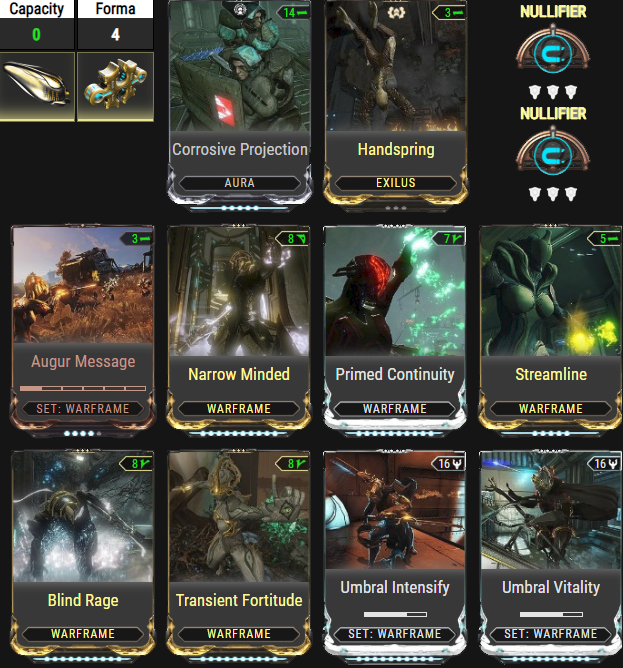
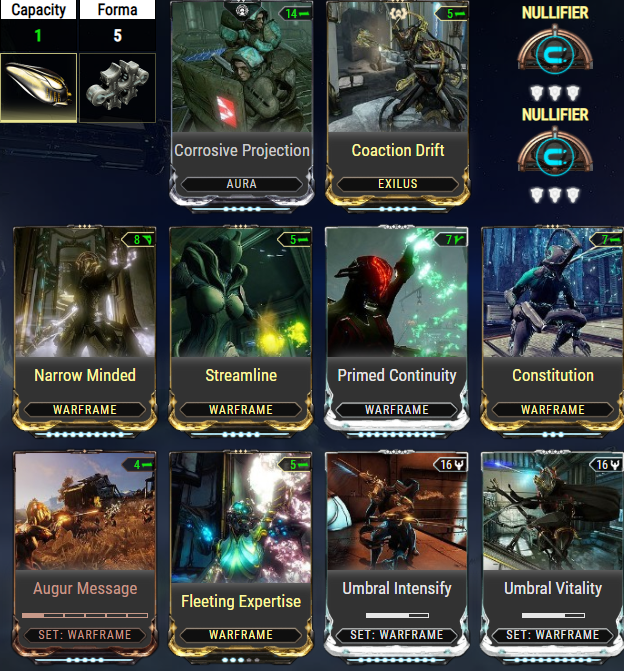
GitBook: [master] 4 pages and 25 assets modified

diff --git a/mechanics/eidolons/required-builds.md b/mechanics/eidolons/required-builds.md
@@ -4,59 +4,73 @@ Here are some of the builds that can suffice in any scenario during eidolon hunt
 
 ### Chroma
 
-Here is the build that is suitable for Chroma Prime, Here some notes to go along with the following build.
+Here is the Chroma build that can suffice in Eidolon hunts,  
+A few notes to go with the following build.
 
-You want to build above 280% Power Strength so you can get your Vex Armor's damage buff high enough to be able to one-two shot a Eidolon limb/capshot. You want very high duration so that way Vex Armor will last a good amount of time and because your Elemental Ward's \(Assuming you're running Toxin ward, because it's highly recommended, because it boost reload speed to provide faster combo building.\) Reload buff, because it is more effective with more duration. Streamline is placed here so you don't spend 2 energy pads for 1 Vex Armor buff, Range should be the least of your concerns, because YOU are the damage dealer.
+* Must have over 280% Power Strength to have enough Vex Armor \(Fury\) to one-two shot.
+* Must have very high duration so both Elemental Ward and Vex armor last a good time.
+* Recommended to run Toxin Ward on your Elemental Ward because it buffs reload speed.
+* Streamline is recommended so you don't burn 2 pads for 1 Vex Armor cast.
+* Swap out Corrosive Projection for Enemy Radar or Sniper Scavenger if 3 are already present.
+* Arcane Nullifier helps to crutch a poorly timed Harrow cast.
 
-Swap out Corrosive Projection for either Enemy Radar or Sniper Scavenger if the other members in your party is already running a total of 3 Corrosive Projections, because reminder you DON'T want full armor strip, only 90-99%.
-
-![](../../.gitbook/assets/image%20%288%29.png)
+![Chroma](../../.gitbook/assets/image%20%2821%29.png)
 
 ### Volt
 
-Here is the build that is suitable for Volt Prime, Here some notes to go along with the following build.
+Here is the Volt build that can suffice in Eidolon hunts,  
+A few notes to go with the following build.
 
-The most important thing here is the very high Duration, because you want to be able to keep shields up for a long time, this allows you to be able to reliably pre-shield, right after Duration is the Efficiency, because you want to be able to cast your shields at a good pace without worrying about running out of energy. Range is not important here because shield's are not affected by range, nor strength.
+* Must have very high Duration so your shields last a good amount of time.
+* Duration is also very important if you choose to preshield.
+* Efficiency is a must here so you don't spend all your energy very quickly.
+* Casting speed from Natural Talent is a major boost in Quality of Life.
+* Swap out Coaction Drift for Handspring if 2 other party members are running CD.
+* Arcane Nullifier helps to crutch a poorly timed Harrow cast.
 
-Swap out Coaction Drift if the other members in your party is already running a total of 2 Coaction Drifts, because reminder you DON'T want full armor strip, only 90-99%.
-
-![](../../.gitbook/assets/image%20%289%29.png)
+![Volt](../../.gitbook/assets/image%20%2822%29.png)
 
 ### Trinity
 
-Here is the build that is suitable for Trinity Prime, Here some notes to go along with the following build.
+Here is the Trinity build that can suffice in Eidolon hunts,  
+A few notes to go with the following build.
 
-The most important thing here is the 150% power strength, what this does is cap out the maximum damage resistance you receive from Bless \(Which is 75%\), Right after that is the Duration, because after all you want Bless to last a while so your lures won't die. Efficiency is also good here because after all, it is your 4th ability which can drain a lot, so this means you will use less pads, Range is not needed here because bless scales off of affinity range. \(Use a rank 3 Fleeting Expertise because gaining 5% efficiency over the loss of 10% duration is not worth the trade.\)
+* Must have at least 150% Power Strength to cap the maximum damage resistance from Bless \(75%\).
+* Duration is a key factor as well because you want Bless to last a good amount of time.
+* Efficiency is also a factor because you don't want to constantly worry about energy.
+* Swap out Coaction Drift for Handspring if 2 other party members are running CD.
+* Arcane Nullifier helps to crutch a poorly timed Harrow cast.
 
-Swap out Coaction Drift if the other members in your party is already running a total of 2 Coaction Drifts, because reminder you DON'T want full armor strip, only 90-99%.
-
-![](../../.gitbook/assets/image%20%281%29.png)
+![Trinity](../../.gitbook/assets/image%20%2811%29.png)
 
 ### Harrow
 
-Here is the build that is suitable for Harrow, Here some notes to go along with the following build.
+Here is the Harrow build that can suffice in Eidolon hunts,  
+A few notes to go with the following build.
 
-The absolute most important thing here is the specific amount of Duration, That duration usually is 92-95% duration, mainly because you want to it to last through Energy Spike and for the Retaliation crit buff to run out before the next Energy Spike. Efficiency is good here so you can reliable cast 4th every single Energy Spike, Strength so you can build up the Retaliation faster for the cap-shot. Range is not needed because it does not affect Covenant. 
+* Mandatory to have in the range of 92-95% Duration.
+* The specific duration is needed for the duration of Energy Spike and for the crit buff to run out before the next Energy Spike.
+* Efficiency is good because you don't want to worry about energy all the time.
+* Swap out Coaction Drift for Handspring if 2 other party members are running CD.
+* Arcane Nullifier helps to crutch out stepping in puddles of water to remove energy.
 
-Swap out Coaction Drift if the other members in your party is already running a total of 2 Coaction Drifts, because reminder you DON'T want full armor strip, only 90-99%.
-
-![](../../.gitbook/assets/image%20%287%29.png)
+![Harrow](../../.gitbook/assets/image%20%284%29.png)
 
 ### Rubico/Prime
 
-The Rubico build is pretty simple, Since the Eidolons are status immune, you want to use 90% elementals, Which is Hellfire and Stormbringer to make Radiation DAMAGE, since the Eidolons also have Alloy Armor which takes 75% more damage from Radiation. After that you want to slot in Vital Sense and Point Strike to increase your critical chance and damage, Then you slot in Split Chamber and Vigilante Armaments for the Multishot, Then there is the flex slot, This slot can be slotted in with Vile Acceleration for faster combo building, a Riven Mod, or even Argon Scope.
+Here is the Rubico build that can suffice in Eidolon hunts,  
+A few notes to go with the following build.
 
-Now lets talk about why there is no Serration, Vex Armor is additive with damage mods such as Serration/Heavy Caliber, Basically it's one big serration and acts like a 9th mod slot, Primed Cryo Rounds wins this slot because it's a huge cold damage boost, which deals 25% damage to alloy armor. Also because elementals scale better. The math for it is,
+* Mandatory to have Radiation damage because it deals 75% extra damage to Alloy Armor.
+* Mandatory to have Multishot to add more pellets to your shots.
+* Mandatory to have Vital Sense and Point Strike to enhance your Critical Chance & Damage.
+* Flex Slot, Currently there is Vile Acceleration in the Flex Slot, because it increases Quality of Life.
+* Riven Mod, Argon Scope, Vile Acceleration are viable options for the spot.
+* Primed Cryo Rounds is slotted over Serration because with CHROMA, All types of +damage are additive with Vex Armor, If you do NOT have Primed Cryo Rounds, slot in Wildfire. 
+* For evidence that PCR deals more damage, here is the math. \(1 + 8.88\)\(1 + \(1.75x1.25\)\(0.9+0.9\)+ 1.25\(1.65\)\) = 69.16 \| Primed Cryo Rounds \(1 + 8.88 + 1.65\)\(1 + \(1.75x1.25\)\(0.9+0.9\)\) = 56.929375 \| Serration
+* If you are running anything else, Serration is fine then.
 
-\(1 + 8.88\)\(1 + \(1.75x1.25\)\(0.9+0.9\)+ 1.25\(1.65\)\) = 69.16 \| Primed Cryo Rounds
-
-\(1 + 8.88 + 1.65\)\(1 + \(1.75x1.25\)\(0.9+0.9\)\) = 56.929375 \| Serration
-
-If you are running anything other then Chroma, Slot in Serration then.
-
-
-
-![](../../.gitbook/assets/image%20%285%29.png)
+![](../../.gitbook/assets/image%20%2815%29.png)
 
 ### Lanka
 
@@ -64,27 +78,74 @@ Follows the same as Rubico.
 
 ### Titania
 
- Here is the build that is suitable for Titania, Here some notes to go along with the following build.
+ Here is the Titania build that can suffice in Eidolon hunts,  
+A few notes to go with the build.
 
-The most important thing here is the high strength, because it gives Dex Pixia a damage multiplier, This build also follows near neutral Duration and Efficiency, this is because it helps to maintain your 4th. Range is not needed here because your 4th doesn't need it, it will waste potential. Arcane Velocity is a near must here because it will give Dex Pixia much more fire rate, which will seriously improve your efficiency in hunting.
+* High strength is needed for a damage multiplier on your Dex Pixia.
+* Near neutral Duration and Efficiency are key to keep Razorwing up
+* Arcane Velocity is highly important here for maximum fire rate.
 
-![](../../.gitbook/assets/image%20%2812%29.png)
+![](../../.gitbook/assets/image%20%2827%29.png)
 
-Following up with the Dex Pixia build, Again since the Eidolon is status immune, you want to use 90% elementals, such as Convulsion, and in this case, Primed/Normal Heated Charge to stack Radiation DAMAGE, since again it deals 75% extra damage to Alloy Armor, Lethal Torrent and Barrel Diffusion to stack up on Multishot, Hornet Strike and Magnum Force to stack up on Damage, and Primed Target Cracker and Primed Pistol Gambit to stack up on Crit.
+Following up with the Dex Pixia build that can suffice in Eidolon hunts,  
+A few notes to go with the build.
 
-![](../../.gitbook/assets/image%20%2810%29.png)
+* Mandatory to have Hornet Strike and Magnum Force for damage.
+* Mandatory to have Radiation damage because it deals 75% extra damage to Alloy Armor.
+* Mandatory to have Primed Target Cracker & Pistol Gambit to enhance Critical Chance & Damage.
+* Mandatory to have Multishot to add more pellets to your shots.
+
+![](../../.gitbook/assets/image%20%289%29.png)
 
 ### Ivara
 
-Here is the build that is suitable for Ivara, Here some notes to go along with the following build.
+Here is the Ivara build that can suffice in Eidolon hunts,  
+A few notes to go with the build.
 
-The main important thing here is the very high Strength, because without Strength you won't get a very high multiplier on your Navigator ability. Efficiency helps to be able maintain energy while Navigator is active, because it will drain a lot of energy over time. Duration and Range is not needed here, Empowered Quiver is a flex slot, Use this augment if you want the additional critical damage buff, but want to be more squishy, use Adaptation if you are want to die less, but at the cost of more damage output, Very important to put on 2 Arcane Guardians, because again, Ivara is insanely squishy.
+* High strength is mandatory to have high Navigator damage multiplier.
+* Low duration is key to have a fast multiplier growth.
+* Efficiency is good because Navigator will drain a bunch of energy.
+* Arcane Guardian is highly recommended to reduce the amount of damage you'll take.
+* Empowered Quiver is recommended to increase Critical Damage for your weapon.
 
-![](../../.gitbook/assets/image.png)
+![](../../.gitbook/assets/image%20%2818%29.png)
 
-Following up with the Sancti Castanas build, Again since the Eidolon is status immune, you want to use 90% elementals, such as Convulsion, and in this case, Primed/Normal Heated Charge to stack Radiation DAMAGE, since again it deals 75% extra damage to Alloy Armor, Hornet Strike and Magnum Force to stack up on Damage, Primed Target Cracker and Hollow Point and Primed Pistol Gambit to stack on as much Crit as possible, Riven mod is kind of needed because of super high disposition, Multishot is not needed here because Navigator does NOT pick up on Multishot.
+Following up with the Sancti Castanas build that can suffice in Eidolon hunts,  
+A few notes to go with the build.
 
-![](../../.gitbook/assets/image%20%283%29.png)
+* Mandatory to have Hornet Strike and Magnum Force to increase damage.
+* Mandatory to have Radiation damage to have Radiation damage.
+* Mandatory to have Primed Pistol Gambit & Target Cracker to enhance Critical Chance & Damage.
+* Riven mod is recommended because of very high disposition.
+
+![](../../.gitbook/assets/image%20%2823%29.png)
+
+### Redeemer
+
+Here is the Redeemer build that can suffice in Eidolon hunts,  
+A few notes to go with the build.
+
+* Recommended to run the Sacrifical set because of the +damage to sentients bonus.
+* Blood rush is mandatory to enhance critical chance by a lot.
+* Gladiator Vice while running Gladiator mods on Deconstructor to help out Blood Rush.
+* Body Count is strongly recommended because combo decays extremely quick.
+* Radiation damage is mandatory because of the 75% bonus damage to Alloy Armor.
+* If you have a riven, you can replace Organ Shatter.
+
+![](../../.gitbook/assets/image%20%2826%29.png)
+
+### Garuda
+
+Here is the Garuda build that can suffice in Eidolon hunts,  
+A few notes to go with the build.
+
+* Running shields is recommended because you are sacrificing health for a damage bonus.
+* Vigorous Swap for increasing overall damage.
+* Natural Talent to help out with casting speed, making buffing faster.
+* Dead Eye to increase sniper damage, Can swap out for Steel Charge if running Redeemer Prime.
+* Quick Thinking to stop death since you'll be at 2 hp a lot.
+
+![](../../.gitbook/assets/image%20%2824%29.png)
 
 {% page-ref page="required-operator-gear-focus.md" %}
 

diff --git a/mechanics/warframe-acquisition.md b/mechanics/warframe-acquisition.md
@@ -4,87 +4,83 @@ description: These are the places to get desired warframe.
 
 # Warframe Acquisition
 
-Base variant warframes can be obtained through out the star chart, except for a few, Here is the list on how to get said warframe,
+### Base variant warframes
 
-### Ash
+* Ash - Acquired from Grineer Manics, Body blueprint from the Market.
+* Atlas - Acquired from Jordas Golem Assassination on Eris, Body blueprint from Jordas Precept quest.
+* Banshee - Can be replicated from the Tenno Lab in the clan Dojo.
+* Baruuk - Acquired from Vox Solaris standing.
+* Chroma - Acquired from Uranus, Neptune, Pluto junctions, Body blueprint from New Strange quest.
+* Ember - Acquired from Sargas Ruk on Saturn, Body blueprint from the Market.
+* Equinox - Acquired from Tyl Regor on Uranus, Body blueprint from the Market.
+* Excalibur - Acquired from Lech Kril on Mars, Body blueprint from the Market.
+* Frost - Acquired from Lech Kril & Vor on Ceres, Body blueprint from the Market.
+* Gara - Acquired from Cetus Bounties, Body blueprint from Saya's Vigil quest.
+* Garuda - Acquired from Fortuna Bounties, Body blueprint from Vox Solaris quest.
+* Harrow - Acquired from Kuva Spy, Fissure Enemies, Defection, Body blueprint from Chains of Harrow.
+* Hildryn - Acquired from Exploiter Orb, Body blueprint from Vox Solaris standing.
+* Hydroid - Acquired from Vay Hek on Earth, Body blueprint from the Market.
+* Inaros - All components come from the Sands of Inaros quest that Baro brings.
+* Ivara - Acquired from Spy nodes, See the below message for specifics.
+* Blueprint/Neuroptics - Uranus/Neptune/Pluto/Sedna \| Chassis - Ceres/Jupiter/Europa/Saturn/Lua \| Systems - Earth/Venus/Mercury/Mars/Phobos
+* Khora - All components come from Sanctuary Onslaught rotations.
+* Limbo - Acquired from the Limbo Theorem quest, Body blueprint from the Market.
+* Loki - Acquired from the Hyena Pack on Neptune, Body blueprint from the Market.
+* Mag - Acquired from The Sergeant on Phobos, Body blueprint from the Market.
+* Mesa - Acquired from M. Alad V on Eris, Body blueprint from the Market.
+* Mirage - Acquired from Hidden Messages quest, Body blueprint from the Market.
+* Nekros - Acquired from the Lephantis on Derelict, Body blueprint from the Market.
+* Nezha - Can be replicated from the Tenno Lab in the clan Dojo.
+* Nidus - Acquired from Infested Salvage on Eris, Body blueprint from Glast Gambit quest.
+* Nova - Acquired from the Raptor on Europa, Body blueprint from the Market.
+* Nyx - Acquired from the Phorid on Invasions, Body blueprint from the Market.
+* Oberon - Acquired from Eximus units, Body blueprint from the Market.
+* Octavia - Acquired from, Neuroptics - Derelict Survival, Chassis - Lua Music Puzzle, Systems Lua Crossfire caches, Body blueprint from Octavias Anthem quest.
+* Revenant - Acquired from Cetus Bounties, Body blueprint from Mask of the Revenant quest.
+* Rhino - Acquired from the Jackal on Venus, Body blueprint from the Market.
+* Saryn - Acquired from Kela De Thaym on Sedna, Body blueprint from the Market.
+* Titania - All components come from The Silver Grove quest.
+* Trinity - Acquired from the Ambulas on Pluto, Body blueprint from the Market.
+* Valkyr - Acquired from Alad V on Jupiter, Body blueprint from the Market.
+* Vauban - Acquired from the Nightwave shop for wolf creds, Body blueprint from the Market.
+* Volt - Can be replicated from the Tenno Lab in the clan Dojo.
+* Wukong - Can be replicated from the Tenno Lab in the clan Dojo.
+* Zephyr - Can be replicated from the Tenno Lab in the clan Dojo.
+* Wisp - ???
+* Excalibur Umbra - The Sacrifice quest.
 
-Ash's components drop as a reward from Grineer Manics, These Manics can be farmed on the Defection gamemode, Clem's weekly, or Grineer Survival.
+### Prime variant warframes
 
-### Atlas
+* Ash Prime - Vaulted
+* Banshee Prime - Vaulted
+* Chroma Prime - Obtainable
+* Ember Prime - Vaulted
+* Equinox Prime - Obtainable
+* Excalibur Prime - Founders Only 
+* Frost Prime - Vaulted
+* Hydroid Prime - Obtainable
+* Limbo Prime - Obtainable
+* Loki Prime - Obtainable \(Current Prime Vault\)
+* Mag Prime - Vaulted
+* Mesa Prime - Obtainable
+* Mirage Prime - Obtainable
+* Nekros Prime - Vaulted
+* Nova Prime - Vaulted
+* Nyx Prime - Vaulted
+* Oberon Prime - Vaulted
+* Rhino Prime - Vaulted
+* Saryn Prime - Vaulted
+* Trinity Prime - Vaulted
+* Valkyr Prime - Vaulted
+* Vauban Prime - Vaulted
+* Volt Prime - Obtainable \(Current Prime Vault\)
+* Zephyr Prime - Obtainable
 
-Atlas's blueprint is a reward from completing the quest The Jordas Precept, The remaining components is a reward from The Jordas Golem assassination on Eris.
+### 
 
-### Banshee
+### 
 
-Banshee's blueprint and components can be replicated from the Tenno Lab in the Dojo once your clan has researched thus parts.
-
-### Baruuk
-
-Baruuk's blueprint and components can be bought from Little Duck in Fortuna for Vox Solaris standing, Main body blueprint requires you to be the rank of Agent, and components require the rank of Hand in Vox Solaris standing.
-
-### Chroma
-
-Chroma's blueprint is a reward from completing the quest The New Strange, The remaining components is a reward from certain Junctions, The Neuroptics is a reward from the Uranus Junction, The Chassis is a reward from the Neptune Junction, The Systems is a reward from the Pluto Junction.
-
-### Ember
-
-Ember's blueprint can be bought from the Market for 25,000 Credits, and the components are a reward from killing General Sargas Ruk on Tethys, Saturn.
-
-### Equinox
-
-Equinox's blueprint can be bought from the Market for 25,000 Credits, and the components are a reward from killing Tyl Regor on Titania, Uranus. Do note this frame has 8 total drops from Tyl Regor, Day Aspect Blueprint, Neuroptics, Chassis, Systems and Night Aspect Blueprint, Neuroptics, Chassis, Systems.
-
-### Excalibur
-
-Excalibur's blueprint can be bought from the Market for 35,000 Credits, and the components are a reward from killing LT. Lech Kril on War, Mars.
-
-### Frost
-
-Frost's blueprint can be bought from the Market for 25,000 Credits, and the components are a reward from killing LT. Lech Kril & Captain Vor on Exta, Ceres.
-
-### Gara
-
-Gara's blueprint is a reward from completing the quest Saya's Vigil, The remaining components are a reward from Plains of Eidolon Bounties.
-
-### Garuda
-
-Garuda's blueprint is a reward from completing the quest Vox Solaris, The remaining components are a reward from Orb Vallis Bounties.
-
-### Harrow
-
-Harrow's blueprint is a reward from completing the quest Chains of Harrow, The Neuroptics is a reward from Vault C on Pago, Kuva Fortress \| Chassis from Void Fissure enemies \| Systems from Rotation C on Defection.
-
-### Hildryn
-
-Hildryn's blueprint can be bought from Little Duck for Vox Solaris standing once reaching the rank of Agent, The Components are a reward from the Exploiter Orb.
-
-### Hydroid
-
-Hydroid's blueprint can be bought from the Market for 50,000 Credits, The remaining components are a reward from killing Vay Hek on Oro, Earth.
-
-### Inaros
-
-Inaros's set is obtainable via Sands of Inaros quest sold from Baro Ki'Teer when he arrives.
-
-### Ivara
-
-![](../.gitbook/assets/image%20%2814%29.png)
-
-### Khora
-
-Khora's set is obtainable via Sanctuary Onslaught as a rotation reward.
-
-### Limbo
-
-Limbo's blueprint can be purchased from the Market for 35,000 Credits, The components are a reward from completing the quest The Limbo Theorem.
-
-### Loki
-
-Loki's blueprint can be purchased from the Market for 35,000 Credits, The components are a reward from killing the Hyena Pack on Psamathe, Neptune.
-
-### Mag
-
-Mag's blueprint can be purchased from the Market for 25,000 Credits, The components are a reward from killing The Sergeant on Illiad, Phobos.
+### 
 
 
 

diff --git a/mechanics/eidolons/required-operator-gear-focus.md b/mechanics/eidolons/required-operator-gear-focus.md
@@ -6,7 +6,7 @@ Here is the most vital part in a hunt, because with out a operator you cannot do
 
 So first thing is first, let me explain what a Amp is, The Amp is basically a weapon that goes on your Operator after you have completed The War Within and have spoken to Quill Onkko for the first time at  Cetus. This Amp is much better then your Operator's Chest Beam after The Second Dream and no Amp at all straight after The War Within, When you first speak to Onkko, you will receive your very own Mote Amp, This is a pretty basic amp, but you are NOT ready to do a casual tridolon just yet, With this amp you should kill some Teralyst for standing, rank up within Onkko so you can unlock different parts of Amp combinations, At the rank of Mote \(Which is rank 1\), You should buy the parts, Raplak Prism, Pencha Scaffold, Clapkra Brace, This results in a 1-1-1 Amp, Which is much better then the Mote Amp, And with this you can kill a Tridolon much more efficiently. After you have gathered a lot more standing from a few Tridolons, Rank up further to hit the rank of Adherent \(Which is rank 3\), Now you should of unlocked the best amp possible till you can unlock Vox Solaris standing, Which is a X-2-3\(Prism, Shraksun Scaffold, Lohrin Brace\), X means you can use anything here, because you want the alternate fire \(Which is the Scaffold\) for Eidolon hunts. After you have ranked up with Vox Solaris to the rank of Instrument \(Which is rank 4\), You now have unlocked the best Brace for Eidolon hunts, which is the Certus Brace, Now you can make a X-2-7 \(Prism, Shraksun Scaffold, Certus Brace\). You might wonder why Shraksun over any other Scaffold, This is because Shraksun shoots a flak that can travel up the Eidolons leg which can hit multiple hit boxes, and then do the initial explosion, this results in serious damage, often one shotting with Void Strike stacks.
 
-![](../../.gitbook/assets/image%20%2816%29.png)
+![](../../.gitbook/assets/image%20%2825%29.png)
 
 ### Focus
 

diff --git a/mechanics/eidolons/other-guides.md b/mechanics/eidolons/other-guides.md
@@ -8,15 +8,15 @@ description: >-
 
 ### Lure Map
 
-![](../../.gitbook/assets/image%20%2817%29.png)
+![](../../.gitbook/assets/image%20%2828%29.png)
 
 ### Amp Parts
 
-![](../../.gitbook/assets/image%20%2813%29.png)
+![](../../.gitbook/assets/image%20%2817%29.png)
 
 ### Possible Vomvalyst Spawns
 
-![](../../.gitbook/assets/image%20%284%29.png)
+![](../../.gitbook/assets/image%20%285%29.png)
 
 ### Trustworthy YouTubers
 
